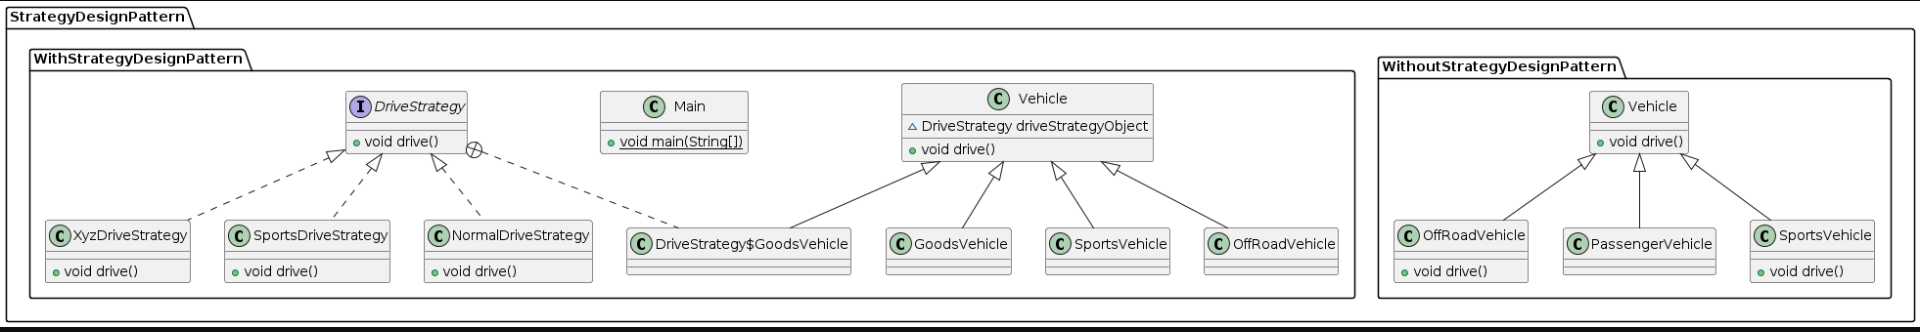
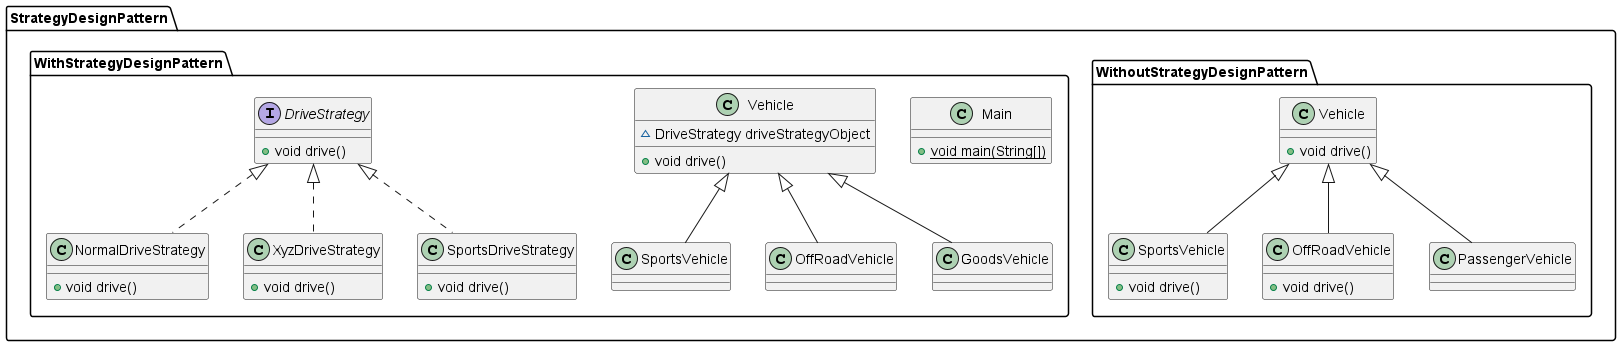
Completed Strategy Design Pattern with Diagram

Changed region(s): [[0.0, 0.0, 1.0, 1.0], [0.1542, 0.2711, 0.2776, 0.5422]]

diff --git a/src/StrategyDesignPattern/WithStrategyDesignPattern/DriveStrategy.java b/src/StrategyDesignPattern/WithStrategyDesignPattern/DriveStrategy.java
@@ -1,10 +1,4 @@
 package StrategyDesignPattern.WithStrategyDesignPattern;
 public interface DriveStrategy {
     public void drive();
-
-    class GoodsVehicle extends Vehicle {
-        GoodsVehicle(){
-            super(new NormalDriveStrategy());
-        }
-    }
 }
